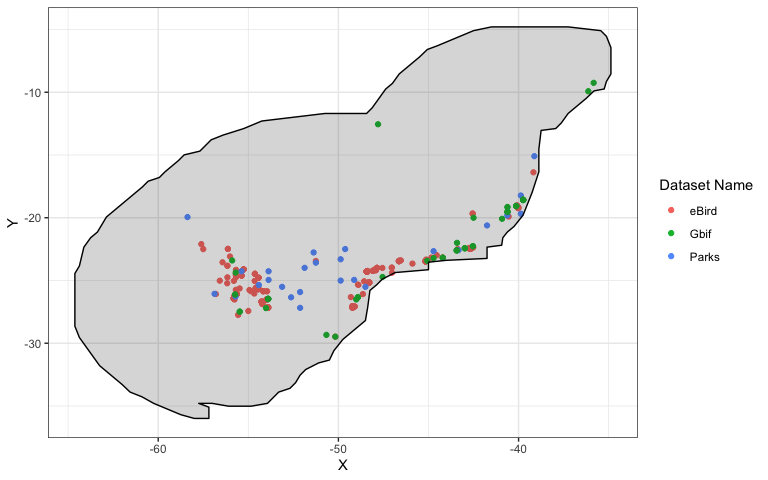
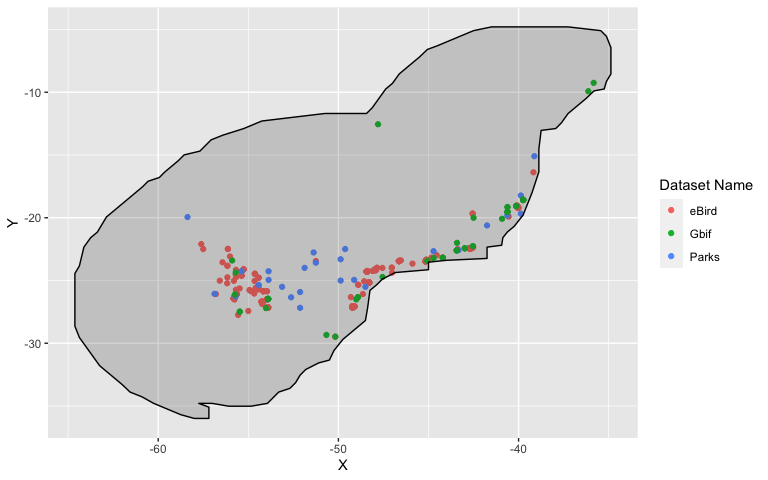
Minor updates regarding README

diff --git a/README.md b/README.md
@@ -59,7 +59,7 @@ include:
 
 This is a basic example which shows you how to specify and run an
 integrated model, using three disparate datasets containing locations of
-the solitary tinamou.
+the solitary tinamou (*Tinamus solitarius)*.
 
 ``` r
 library(PointedSDMs)
@@ -100,7 +100,7 @@ We can also make a quick plot of where the species are located using
 ``` r
 region <- SolitaryTinamou$region
 
-model$plot(Boundary = FALSE) + gg(region) + theme_bw()
+model$plot(Boundary = FALSE) + gg(region)
 ```
 
 <img src="man/figures/README-plot-1.png" width="100%" />
@@ -116,7 +116,7 @@ summary(modelRun)
 #> Summary of 'bruSDM' object:
 #> 
 #> inlabru version: 2.5.2
-#> INLA version: 22.04.16
+#> INLA version: 22.05.18-2
 #> 
 #> Types of data modelled:
 #>                                     
@@ -124,31 +124,31 @@ summary(modelRun)
 #> Parks                Present absence
 #> Gbif                    Present only
 #> Time used:
-#>     Pre = 3.26, Running = 9.49, Post = 0.0327, Total = 12.8 
+#>     Pre = 1.51, Running = 18.2, Post = 0.0269, Total = 19.7 
 #> Fixed effects:
-#>                   mean    sd 0.025quant 0.5quant 0.975quant mode   kld
-#> Forest          -0.003 0.001     -0.006   -0.003      0.000   NA 0.091
-#> eBird_intercept -0.228 0.047     -0.320   -0.228     -0.136   NA 0.454
-#> Parks_intercept -0.511 0.180     -0.869   -0.510     -0.163   NA 0.000
-#> Gbif_intercept  -0.537 0.048     -0.631   -0.537     -0.444   NA 0.256
+#>                   mean     sd 0.025quant 0.5quant 0.975quant mode   kld
+#> Forest           0.307  0.014      0.279    0.307      0.334   NA 0.155
+#> eBird_intercept  1.930 18.257    -33.884    1.929     37.743   NA 0.000
+#> Parks_intercept -2.226 18.258    -38.039   -2.224     33.591   NA 0.000
+#> Gbif_intercept   0.314 18.257    -35.500    0.314     36.127   NA 0.000
 #> 
 #> Random effects:
 #>   Name     Model
 #>     shared_spatial SPDE2 model
 #> 
 #> Model hyperparameters:
-#>                            mean   sd 0.025quant 0.5quant 0.975quant mode
-#> Theta1 for shared_spatial -2.35 0.00      -2.35    -2.35      -2.35   NA
-#> Theta2 for shared_spatial -1.84 0.00      -1.84    -1.84      -1.84   NA
+#>                             mean    sd 0.025quant 0.5quant 0.975quant mode
+#> Theta1 for shared_spatial  -1.36 0.015      -1.40    -1.36      -1.34   NA
+#> Theta2 for shared_spatial -10.34 0.015     -10.37   -10.34     -10.31   NA
 #> 
-#> Deviance Information Criterion (DIC) ...............: 4201.28
-#> Deviance Information Criterion (DIC, saturated) ....: -23342.56
-#> Effective number of parameters .....................: 218.51
+#> Deviance Information Criterion (DIC) ...............: 5802.05
+#> Deviance Information Criterion (DIC, saturated) ....: -21741.79
+#> Effective number of parameters .....................: 2042.06
 #> 
-#> Watanabe-Akaike information criterion (WAIC) ...: 3045.11
-#> Effective number of parameters .................: 638.81
+#> Watanabe-Akaike information criterion (WAIC) ...: 3.81e+19
+#> Effective number of parameters .................: 1.9e+19
 #> 
-#> Marginal log-Likelihood:  -3278.25 
+#> Marginal log-Likelihood:  -1213.67 
 #>  is computed 
 #> Posterior summaries for the linear predictor and the fitted values are computed
 #> (Posterior marginals needs also 'control.compute=list(return.marginals.predictor=TRUE)')
